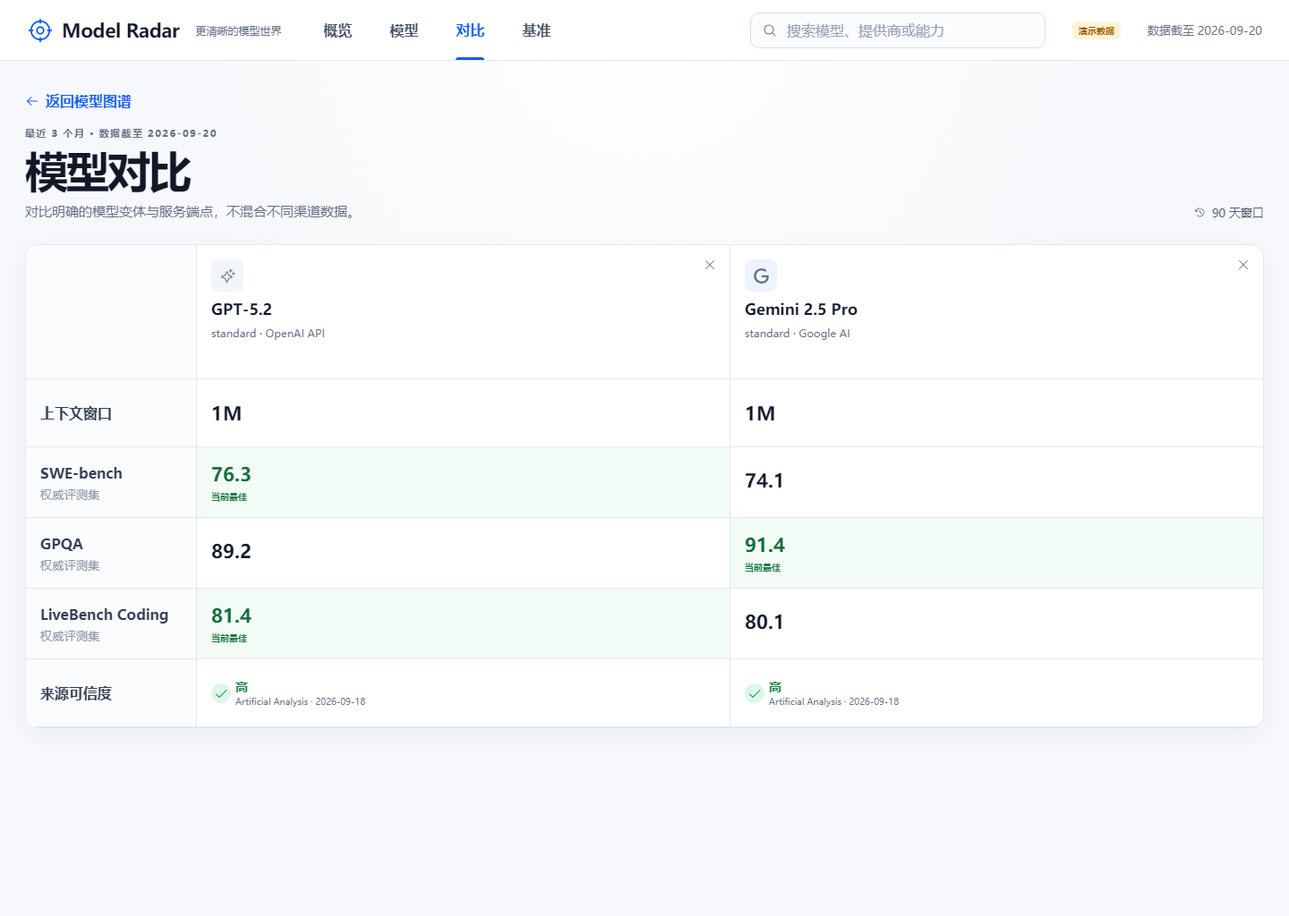
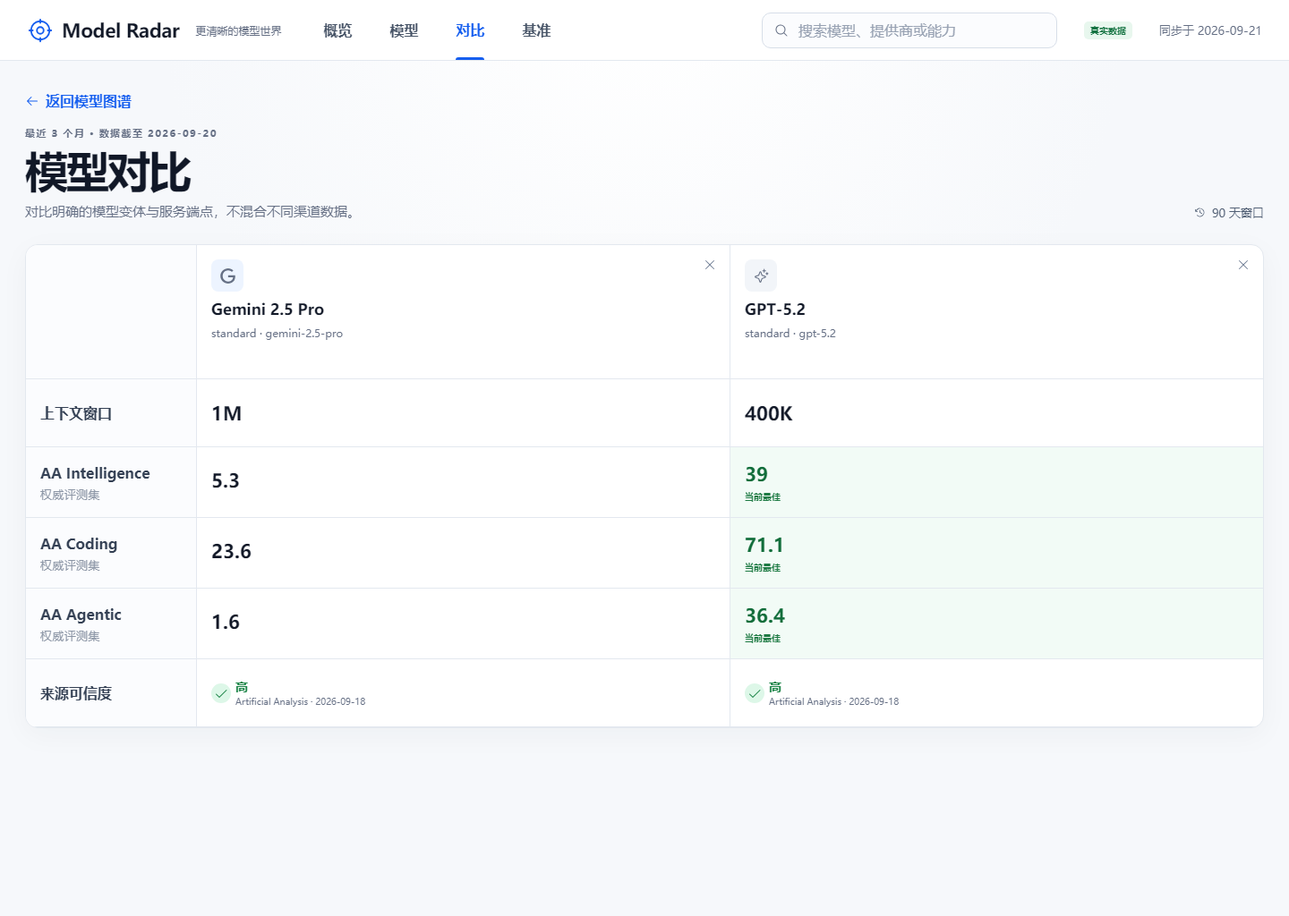
feat: connect web app to live model data

diff --git a/apps/web/src/App.jsx b/apps/web/src/App.jsx
@@ -1,15 +1,15 @@
 import { useEffect, useMemo, useState } from "react";
 import {
-  PiArrowLeft, PiArrowRight, PiBracketsCurly,
+  PiArrowLeft, PiArrowRight,
   PiCaretDown, PiCaretRight, PiChartLineUp, PiCheck,
-  PiClockCounterClockwise, PiCrosshair, PiCurrencyDollar, PiInfo,
-  PiLightning, PiMagnifyingGlass, PiShieldWarning, PiSparkle, PiTrendUp, PiX,
+  PiClockCounterClockwise, PiCrosshair, PiInfo,
+  PiMagnifyingGlass, PiShieldWarning, PiSparkle, PiTrendUp, PiX,
 } from "react-icons/pi";
 import { SiAlibabacloud, SiAnthropic, SiDeepseek, SiGoogle, SiMeta } from "react-icons/si";
 
 const PROVIDER_ICONS = { OpenAI: PiSparkle, Anthropic: SiAnthropic, Google: SiGoogle, Meta: SiMeta, DeepSeek: SiDeepseek, Alibaba: SiAlibabacloud };
 const ROUTES = { overview: "/", models: "/models", compare: "/compare", benchmarks: "/benchmarks" };
-const MODELS = [
+const DEMO_MODELS = [
   { id:"gpt-5-2", name:"GPT-5.2", provider:"OpenAI", release:"2026-08-15", context:"1M", reasoning:5, vision:4, tools:5, eval:92.4, benchmark:"MMLU-Pro", source:"Artificial Analysis", variants:["standard","reasoning"], endpoint:"OpenAI API", openWeight:false, score:{"SWE-bench":76.3,GPQA:89.2,"LiveBench Coding":81.4} },
   { id:"claude-opus-4-1", name:"Claude Opus 4.1", provider:"Anthropic", release:"2026-08-05", context:"200K", reasoning:5, vision:4, tools:4, eval:90.1, benchmark:"MMLU-Pro", source:"Artificial Analysis", variants:["standard","thinking"], endpoint:"Anthropic API", openWeight:false, score:{"SWE-bench":72.8,GPQA:88.7,"LiveBench Coding":79.6} },
   { id:"gemini-2-5-pro", name:"Gemini 2.5 Pro", provider:"Google", release:"2026-07-17", context:"1M", reasoning:4, vision:5, tools:4, eval:91.7, benchmark:"MMLU-Pro", source:"Artificial Analysis", variants:["standard","thinking"], endpoint:"Google AI", openWeight:false, score:{"SWE-bench":74.1,GPQA:91.4,"LiveBench Coding":80.1} },
@@ -17,13 +17,7 @@ const MODELS = [
   { id:"deepseek-r2", name:"DeepSeek R2", provider:"DeepSeek", release:"2026-08-21", context:"256K", reasoning:4, vision:2, tools:3, eval:88.9, benchmark:"MMLU-Pro", source:"OpenCompass", variants:["chat","reasoner"], endpoint:"DeepSeek API", openWeight:true, score:{"SWE-bench":70.2,GPQA:87.1,"LiveBench Coding":77.8} },
   { id:"qwen3-max", name:"Qwen3 Max", provider:"Alibaba", release:"2026-08-11", context:"1M", reasoning:4, vision:4, tools:4, eval:89.4, benchmark:"MMLU-Pro", source:"Qwen Eval", variants:["standard","thinking"], endpoint:"Alibaba Cloud", openWeight:false, score:{"SWE-bench":71.6,GPQA:86.9,"LiveBench Coding":78.3} },
 ];
-const UPDATES = [
-  { type:"基准变化", icon:PiChartLineUp, tone:"blue", title:"GPT-5.2 在 SWE-bench Verified 上升 5.8%", detail:"72.1 → 76.3 · 当前三个月最大代码能力变化", date:"09-20", source:"Artificial Analysis" },
-  { type:"规格更新", icon:PiBracketsCurly, tone:"violet", title:"Claude Sonnet 4.5 上下文扩展至 1M", detail:"长文档与代码库任务的可用窗口显著扩大", date:"09-18", source:"Anthropic" },
-  { type:"价格调整", icon:PiCurrencyDollar, tone:"amber", title:"Gemini 2.5 Flash 输入价格下调 20%", detail:"$0.30 → $0.24 / 1M tokens", date:"09-16", source:"Google" },
-  { type:"新模型", icon:PiLightning, tone:"green", title:"DeepSeek R2 进入观察名单", detail:"推理与工具使用评测已开始持续跟踪", date:"09-12", source:"DeepSeek" },
-];
-const BENCHMARKS = [
+const DEMO_BENCHMARKS = [
   { id:"swe-bench", name:"SWE-bench Verified", category:"代码", capability:"Repo-level Coding", version:"2026.08", metric:"Resolved %", risk:"中", results:6, updated:"09-20", description:"衡量模型在真实 GitHub 仓库中定位、修改并验证软件问题的能力。", method:"500 个经人工验证的软件工程任务，分数越高越好。" },
   { id:"gpqa", name:"GPQA Diamond", category:"推理", capability:"Scientific Reasoning", version:"Diamond", metric:"Accuracy", risk:"低", results:6, updated:"09-18", description:"面向博士级科学问题的高难度推理评测。", method:"198 道精选题目，采用准确率并记录推理设置。" },
   { id:"livebench", name:"LiveBench Coding", category:"代码", capability:"Code Generation", version:"2026-09", metric:"Score", risk:"低", results:6, updated:"09-17", description:"按月更新、减少训练污染影响的动态代码评测。", method:"使用当月新题集，保留版本与评测时间。" },
@@ -31,7 +25,46 @@ const BENCHMARKS = [
   { id:"mmmu", name:"MMMU", category:"多模态", capability:"Vision Reasoning", version:"1.1", metric:"Accuracy", risk:"中", results:4, updated:"09-09", description:"面向大学学科图像、图表与文档理解的多模态评测。", method:"图文混合输入，结果明确关联支持视觉的 Variant。" },
 ];
 
-function ModelMark({ model }) { const Icon=PROVIDER_ICONS[model.provider]; return <span className={`provider-mark provider-${model.provider.toLowerCase()}`}><Icon/></span>; }
+const PROVIDER_NAMES = { openai:"OpenAI", anthropic:"Anthropic", google:"Google", meta:"Meta", deepseek:"DeepSeek", alibaba:"Alibaba", xai:"xAI", mistral:"Mistral", zhipu:"Zhipu" };
+const SCORE_LABELS = {
+  artificial_analysis_intelligence_index:"AA Intelligence",
+  artificial_analysis_coding_index:"AA Coding",
+  artificial_analysis_agentic_index:"AA Agentic",
+};
+const COMPARE_BENCHMARKS = Object.values(SCORE_LABELS);
+
+function compactTokens(value) {
+  if (!value) return "—";
+  if (value >= 1_000_000) return `${value / 1_000_000}M`;
+  if (value >= 1_000) return `${Math.round(value / 1_000)}K`;
+  return String(value);
+}
+
+function mapApiModel(item) {
+  const evaluations=item.evaluations||[], scores={};
+  evaluations.forEach(e=>{ if(SCORE_LABELS[e.benchmark_slug]) scores[SCORE_LABELS[e.benchmark_slug]]=Number(e.score); });
+  const headline=evaluations.find(e=>e.benchmark_slug==="artificial_analysis_intelligence_index")||evaluations[0];
+  const variant=item.variant||{};
+  return {
+    id:item.slug, name:item.canonical_name, provider:PROVIDER_NAMES[item.provider]||item.provider,
+    release:item.release_date||"—", context:compactTokens(variant.context_window),
+    reasoning:variant.supports_reasoning?5:2, vision:variant.supports_image?4:1, tools:variant.supports_tool_calling?4:1,
+    eval:headline?Number(headline.score):null, benchmark:headline?(SCORE_LABELS[headline.benchmark_slug]||headline.benchmark_name):"待评测",
+    source:headline?.source||"Registry", variants:[variant.name||"standard"],
+    endpoint:item.endpoint?.external_model_id||"暂无端点", openWeight:Boolean(item.open_weight), score:scores,
+    snapshotId:headline?.source_snapshot_id, observedAt:headline?.observed_at, live:true,
+  };
+}
+
+function mapApiBenchmark(item) {
+  const categoryMap={coding:"代码",reasoning:"推理",agent:"智能体",composite:"综合",multimodal:"多模态",knowledge:"知识"};
+  const version=item.versions?.[0], metric=version?.metrics?.[0];
+  return { id:item.slug, name:item.name, category:categoryMap[item.category]||item.category, capability:item.capabilities?.map(x=>x.name).join(" / ")||item.category,
+    version:version?.version||"—", metric:metric?.name||"—", risk:item.contamination_risk==="low"?"低":item.contamination_risk==="high"?"高":"中",
+    results:"—", updated:"本次同步", description:item.description||"暂无说明", method:`${metric?.name||"Score"} · ${metric?.score_direction||"higher_better"}` };
+}
+
+function ModelMark({ model }) { const Icon=PROVIDER_ICONS[model.provider]||PiSparkle; return <span className={`provider-mark provider-${model.provider.toLowerCase()}`}><Icon/></span>; }
 function Rating({ value, label }) { return <div className="rating" aria-label={`${label} ${value}/5`}><span className="rating-bars">{[1,2,3,4,5].map(n=><i key={n} className={n<=value?"filled":""}/>)}</span><small>{value>=5?"极强":value>=4?"强":value>=3?"中":"基础"}</small></div>; }
 function Filter({ label, value, onChange, options }) { return <label className="filter"><span>{label}</span><select value={value} onChange={e=>onChange(e.target.value)}><option value="all">全部</option>{options.map(x=><option key={x} value={x}>{x}</option>)}</select><PiCaretDown/></label>; }
 
@@ -39,16 +72,19 @@ function PageHero({ eyebrow, title, description, aside }) {
   return <div className="page-hero"><div><p className="eyebrow">{eyebrow}</p><h1>{title}</h1><p>{description}</p></div>{aside&&<aside>{aside}</aside>}</div>;
 }
 
-function Overview({ navigate }) {
+function Overview({ navigate, models }) {
+  const ranked=[...models].filter(m=>m.eval!==null).sort((a,b)=>b.eval-a.eval);
+  const liveUpdates=ranked.slice(0,4).map((model,index)=>({type:"真实评测",icon:PiChartLineUp,tone:["blue","violet","amber","green"][index],title:`${model.name} · ${model.benchmark} ${model.eval}`,detail:`${model.provider} · ${model.variants[0]} · ${model.endpoint}`,date:"本次同步",source:model.source}));
+  const pulse=COMPARE_BENCHMARKS.map(label=>({label,model:models.filter(m=>Number.isFinite(m.score[label])).sort((a,b)=>b.score[label]-a.score[label])[0]})).filter(item=>item.model);
   return <section className="page overview-page">
-    <PageHero eyebrow="LAST 90 DAYS · 数据截至 2026-09-20" title="最近发生了什么？" description="聚合模型发布、评测变化、价格和规格更新，只保留影响决策的信号。" aside={<><strong>近三个月观察窗口</strong><span>2026-06-20 — 2026-09-20</span></>}/>
+    <PageHero eyebrow="LIVE DATA · ARTIFICIAL ANALYSIS" title="最新模型雷达" description="展示已同步、可追溯到原始 Snapshot 的真实评测数据；未匹配的外部模型进入人工解析队列。" aside={<><strong>本次真实数据同步</strong><span>2026-09-21 · 近三个月范围</span></>}/>
     <div className="overview-grid">
-      <article className="panel activity-panel"><header><div><p className="section-kicker">LATEST CHANGES</p><h2>重要变化</h2></div><button className="text-button" onClick={()=>navigate("models")}>查看模型 <PiArrowRight/></button></header>
-        <div className="activity-list">{UPDATES.map(({type,icon:Icon,tone,title,detail,date,source})=><div className="activity-row" key={title}><span className={`activity-icon ${tone}`}><Icon/></span><div><small>{type}</small><strong>{title}</strong><p>{detail}</p></div><div className="activity-meta"><b>{date}</b><span>{source}</span></div></div>)}</div>
+      <article className="panel activity-panel"><header><div><p className="section-kicker">LATEST SYNC</p><h2>最新真实评测</h2></div><button className="text-button" onClick={()=>navigate("models")}>查看模型 <PiArrowRight/></button></header>
+        <div className="activity-list">{liveUpdates.map(({type,icon:Icon,tone,title,detail,date,source})=><div className="activity-row" key={title}><span className={`activity-icon ${tone}`}><Icon/></span><div><small>{type}</small><strong>{title}</strong><p>{detail}</p></div><div className="activity-meta"><b>{date}</b><span>{source}</span></div></div>)}</div>
       </article>
-      <aside className="panel watch-panel"><p className="section-kicker">WATCHLIST</p><h2>值得关注</h2><p className="panel-intro">近期变化幅度较大的模型。</p>{MODELS.slice(0,4).map((m,index)=><div className="watch-row" key={m.id}><span>{index+1}</span><ModelMark model={m}/><div><strong>{m.name}</strong><small>{m.provider} · {m.context}</small></div><b>{m.eval}</b></div>)}<button className="primary wide" onClick={()=>navigate("models")}>选择模型进行对比 <PiArrowRight/></button></aside>
+      <aside className="panel watch-panel"><p className="section-kicker">WATCHLIST</p><h2>值得关注</h2><p className="panel-intro">按 AA Intelligence 当前分数排序。</p>{ranked.slice(0,4).map((m,index)=><div className="watch-row" key={m.id}><span>{index+1}</span><ModelMark model={m}/><div><strong>{m.name}</strong><small>{m.provider} · {m.context}</small></div><b>{m.eval}</b></div>)}<button className="primary wide" onClick={()=>navigate("models")}>选择模型进行对比 <PiArrowRight/></button></aside>
     </div>
-    <article className="panel pulse-panel"><header><div><p className="section-kicker">BENCHMARK PULSE</p><h2>评测变化速览</h2></div><button className="text-button" onClick={()=>navigate("benchmarks")}>查看全部基准 <PiArrowRight/></button></header><div className="pulse-list"><div><span>SWE-bench Verified</span><strong>GPT-5.2</strong><b className="positive">+5.8%</b></div><div><span>GPQA Diamond</span><strong>Gemini 2.5 Pro</strong><b className="positive">+2.7%</b></div><div><span>LiveBench Coding</span><strong>Qwen3 Max</strong><b className="positive">+3.1%</b></div></div></article>
+    <article className="panel pulse-panel"><header><div><p className="section-kicker">BENCHMARK PULSE</p><h2>真实评测速览</h2></div><button className="text-button" onClick={()=>navigate("benchmarks")}>查看全部基准 <PiArrowRight/></button></header><div className="pulse-list">{pulse.map(({label,model})=><div key={label}><span>{label}</span><strong>{model.name}</strong><b className="positive">{model.score[label]}</b></div>)}</div></article>
   </section>;
 }
 
@@ -57,27 +93,29 @@ function SelectionDock({ selected, toggle, navigate }) {
   return <div className={`selection-dock ${selected.length?"has-selection":""}`} aria-live="polite"><div className="selection-summary"><strong>{message}</strong><span>比较时会明确 Variant 与 Endpoint</span></div><div className="selection-chips">{selected.map(m=><span className="selection-chip" key={m.id}><ModelMark model={m}/><span><b>{m.name}</b><small>{m.variants[0]} · {m.endpoint}</small></span><button onClick={()=>toggle(m.id)} aria-label={`移除 ${m.name}`}><PiX/></button></span>)}</div><button className="primary" disabled={selected.length<2} onClick={()=>navigate("compare")}>{selected.length<2?"继续选择":"开始对比"} <PiArrowRight/></button></div>;
 }
 
-function ModelCatalog({ query, setQuery, selected, selectedIds, toggle, provider, setProvider, capability, setCapability, openWeight, setOpenWeight, navigate }) {
-  const filtered=useMemo(()=>MODELS.filter(m=>`${m.name} ${m.provider}`.toLowerCase().includes(query.toLowerCase())&&(provider==="all"||m.provider===provider)&&(openWeight==="all"||(openWeight==="yes"?m.openWeight:!m.openWeight))&&(capability==="all"||m[capability]>=4)),[query,provider,capability,openWeight]);
+function ModelCatalog({ models, query, setQuery, selected, selectedIds, toggle, provider, setProvider, capability, setCapability, openWeight, setOpenWeight, navigate }) {
+  const providerOptions=[...new Set(models.map(m=>m.provider))];
+  const filtered=useMemo(()=>models.filter(m=>`${m.name} ${m.provider}`.toLowerCase().includes(query.toLowerCase())&&(provider==="all"||m.provider===provider)&&(openWeight==="all"||(openWeight==="yes"?m.openWeight:!m.openWeight))&&(capability==="all"||m[capability]>=4)),[models,query,provider,capability,openWeight]);
   return <section className="catalog page"><PageHero eyebrow="MODEL INTELLIGENCE · 近 3 个月" title="模型图谱" description="收录经过验证的主流模型、变体与推理端点，快速筛选并进入可信对比。" aside={<><strong>独立 · 客观 · 可追溯</strong><span>连接模型、评测与真实应用</span></>}/>
-    <div className="catalog-surface"><div className="filters"><label className="model-search"><PiMagnifyingGlass/><input value={query} onChange={e=>setQuery(e.target.value)} placeholder="搜索模型名称、提供商或关键词…"/></label><Filter label="Provider" value={provider} onChange={setProvider} options={["OpenAI","Anthropic","Google","Meta","DeepSeek","Alibaba"]}/><Filter label="能力" value={capability} onChange={setCapability} options={["reasoning","vision","tools"]}/><Filter label="Open Weight" value={openWeight} onChange={setOpenWeight} options={["yes","no"]}/></div>
+    <div className="catalog-surface"><div className="filters"><label className="model-search"><PiMagnifyingGlass/><input value={query} onChange={e=>setQuery(e.target.value)} placeholder="搜索模型名称、提供商或关键词…"/></label><Filter label="Provider" value={provider} onChange={setProvider} options={providerOptions}/><Filter label="能力" value={capability} onChange={setCapability} options={["reasoning","vision","tools"]}/><Filter label="Open Weight" value={openWeight} onChange={setOpenWeight} options={["yes","no"]}/></div>
       <SelectionDock selected={selected} toggle={toggle} navigate={navigate}/>
-      <div className="table-wrap"><table><thead><tr><th/><th>Model</th><th>Provider</th><th>Release</th><th>Context</th><th>Reasoning</th><th>Vision</th><th>Tool Use</th><th>Latest Eval</th><th>Status</th></tr></thead><tbody>{filtered.map(m=>{const checked=selectedIds.includes(m.id);return <tr key={m.id} className={checked?"selected":""}><td><button className={`checkbox ${checked?"checked":""}`} onClick={()=>toggle(m.id)} aria-label={`${checked?"取消选择":"选择"} ${m.name}`}>{checked&&<PiCheck/>}</button></td><td><div className="model-name"><strong>{m.name}</strong><span>{m.variants.length} variants</span><small>{m.variants.join(" · ")}</small></div></td><td><div className="provider"><ModelMark model={m}/><span>{m.provider}</span></div></td><td>{m.release}</td><td><b>{m.context}</b><small>tokens</small></td><td><Rating value={m.reasoning} label="Reasoning"/></td><td><Rating value={m.vision} label="Vision"/></td><td><Rating value={m.tools} label="Tool use"/></td><td><div className="eval"><b>{m.eval}</b><span>{m.benchmark}</span><small>{m.source}</small></div></td><td><div className="status"><i/>可用<small>{m.endpoint}</small></div></td></tr>})}</tbody></table>{filtered.length===0&&<div className="empty">没有符合当前筛选条件的模型</div>}</div>
-      <footer className="table-footer"><span>显示 {filtered.length} 个模型 · 时间范围：2026-06-20 至 2026-09-20</span><span><PiInfo/> 数据来源：官方发布与权威评测集 · 最后更新 2026-09-20</span></footer></div>
+      <div className="table-wrap"><table><thead><tr><th/><th>Model</th><th>Provider</th><th>Release</th><th>Context</th><th>Reasoning</th><th>Vision</th><th>Tool Use</th><th>Latest Eval</th><th>Status</th></tr></thead><tbody>{filtered.map(m=>{const checked=selectedIds.includes(m.id);return <tr key={m.id} className={checked?"selected":""}><td><button className={`checkbox ${checked?"checked":""}`} onClick={()=>toggle(m.id)} aria-label={`${checked?"取消选择":"选择"} ${m.name}`}>{checked&&<PiCheck/>}</button></td><td><div className="model-name"><strong>{m.name}</strong><span>{m.variants.length} variants</span><small>{m.variants.join(" · ")}</small></div></td><td><div className="provider"><ModelMark model={m}/><span>{m.provider}</span></div></td><td>{m.release}</td><td><b>{m.context}</b><small>tokens</small></td><td><Rating value={m.reasoning} label="Reasoning"/></td><td><Rating value={m.vision} label="Vision"/></td><td><Rating value={m.tools} label="Tool use"/></td><td><div className="eval"><b>{m.eval??"—"}</b><span>{m.benchmark}</span><small>{m.source}</small></div></td><td><div className="status"><i/>{m.live?"已同步":"演示"}<small>{m.endpoint}</small></div></td></tr>})}</tbody></table>{filtered.length===0&&<div className="empty">没有符合当前筛选条件的模型</div>}</div>
+      <footer className="table-footer"><span>显示 {filtered.length} 个模型 · 近三个月跟踪范围</span><span><PiInfo/> 评测来源：Artificial Analysis · 本次同步 2026-09-21</span></footer></div>
   </section>;
 }
 
 function CompareView({ selected, navigate, toggle }) {
-  const benchmarks=["SWE-bench","GPQA","LiveBench Coding"];
+  const benchmarks=COMPARE_BENCHMARKS;
   if(selected.length<2) return <section className="page compare-view"><PageHero eyebrow="MODEL COMPARE" title="模型对比" description="选择 2–5 个明确的 Variant 与 Endpoint，避免混合不同渠道的数据。"/><div className="panel compare-empty"><span className="empty-icon"><PiTrendUp/></span><h2>{selected.length===1?"再选 1 个模型即可开始":"还没有选择模型"}</h2><p>{selected.length===1?`${selected[0].name} 已加入对比。`:"从模型图谱中选择你真正关心的候选项。"}</p><button className="primary" onClick={()=>navigate("models")}>去选择模型 <PiArrowRight/></button></div></section>;
   return <section className="compare-view page"><button className="text-button" onClick={()=>navigate("models")}><PiArrowLeft/> 返回模型图谱</button><div className="compare-title"><div><p className="eyebrow">最近 3 个月 · 数据截至 2026-09-20</p><h1>模型对比</h1><p>对比明确的模型变体与服务端点，不混合不同渠道数据。</p></div><span className="freshness"><PiClockCounterClockwise/> 90 天窗口</span></div><div className="compare-grid" style={{"--columns":selected.length}}><div className="compare-label blank"/>{selected.map(m=><article className="compare-head" key={m.id}><button onClick={()=>toggle(m.id)} aria-label={`移除 ${m.name}`}><PiX/></button><ModelMark model={m}/><strong>{m.name}</strong><span>{m.variants[0]} · {m.endpoint}</span></article>)}<div className="compare-label">上下文窗口</div>{selected.map(m=><div className="compare-cell" key={`${m.id}-context`}><b>{m.context}</b></div>)}{benchmarks.map(b=><div className="compare-row" key={b}><div className="compare-label">{b}<small>权威评测集</small></div>{selected.map(m=>{const best=Math.max(...selected.map(x=>x.score[b]));return <div className={`compare-cell ${m.score[b]===best?"best":""}`} key={`${m.id}-${b}`}><b>{m.score[b]}</b><span>{m.score[b]===best?"当前最佳":""}</span></div>})}</div>)}<div className="compare-label">来源可信度</div>{selected.map(m=><div className="compare-cell evidence" key={`${m.id}-source`}><PiCheck/><div><b>高</b><span>{m.source} · 2026-09-18</span></div></div>)}</div></section>;
 }
 
-function Benchmarks() {
+function Benchmarks({ benchmarks }) {
   const [search,setSearch]=useState(""), [category,setCategory]=useState("all"), [active,setActive]=useState("swe-bench");
-  const rows=BENCHMARKS.filter(b=>(b.name+b.capability).toLowerCase().includes(search.toLowerCase())&&(category==="all"||b.category===category));
-  const detail=BENCHMARKS.find(b=>b.id===active);
-  return <section className="page benchmark-page"><PageHero eyebrow="BENCHMARK REGISTRY · 近 3 个月" title="基准目录" description="理解每个分数测量什么、使用哪个版本，以及结果是否存在污染风险。" aside={<><strong>{BENCHMARKS.length} 个核心基准</strong><span>版本、Metric 与来源可追溯</span></>}/>
+  const categories=[...new Set(benchmarks.map(b=>b.category))];
+  const rows=benchmarks.filter(b=>(b.name+b.capability).toLowerCase().includes(search.toLowerCase())&&(category==="all"||b.category===category));
+  const detail=benchmarks.find(b=>b.id===active)||benchmarks[0];
+  return <section className="page benchmark-page"><PageHero eyebrow="BENCHMARK REGISTRY · 近 3 个月" title="基准目录" description="理解每个分数测量什么、使用哪个版本，以及结果是否存在污染风险。" aside={<><strong>{benchmarks.length} 个核心基准</strong><span>版本、Metric 与来源可追溯</span></>}/>
     <div className="panel benchmark-panel"><div className="benchmark-tools"><label className="model-search"><PiMagnifyingGlass/><input value={search} onChange={e=>setSearch(e.target.value)} placeholder="搜索基准或能力…"/></label><Filter label="分类" value={category} onChange={setCategory} options={["代码","推理","多模态"]}/></div><div className="benchmark-list"><div className="benchmark-list-head"><span>Benchmark</span><span>能力</span><span>版本 / Metric</span><span>污染风险</span><span>最近更新</span><span/></div>{rows.map(b=><button className={`benchmark-row ${active===b.id?"active":""}`} key={b.id} onClick={()=>setActive(b.id)}><span><b>{b.name}</b><small>{b.category} · {b.results} 个模型结果</small></span><span>{b.capability}</span><span><b>{b.version}</b><small>{b.metric}</small></span><span className={`risk risk-${b.risk}`}>{b.risk}</span><span>{b.updated}</span><PiCaretRight/></button>)}</div></div>
     {detail&&<article className="panel benchmark-detail"><div><p className="section-kicker">BENCHMARK DETAIL</p><h2>{detail.name}</h2><p>{detail.description}</p></div><dl><div><dt>评测方法</dt><dd>{detail.method}</dd></div><div><dt>当前版本</dt><dd>{detail.version}</dd></div><div><dt>Metric</dt><dd>{detail.metric}</dd></div><div><dt>污染风险</dt><dd><PiShieldWarning/> {detail.risk}</dd></div></dl></article>}
   </section>;
@@ -86,13 +124,35 @@ function Benchmarks() {
 export function App() {
   const pathToView=()=>Object.entries(ROUTES).find(([,path])=>path===location.pathname)?.[0]||"overview";
   const [view,setView]=useState(pathToView), [query,setQuery]=useState(""), [provider,setProvider]=useState("all"), [capability,setCapability]=useState("all"), [openWeight,setOpenWeight]=useState("all"), [selectedIds,setSelectedIds]=useState([]);
-  const selected=MODELS.filter(m=>selectedIds.includes(m.id));
+  const [models,setModels]=useState([]), [benchmarks,setBenchmarks]=useState([]), [dataStatus,setDataStatus]=useState("loading");
+  const selected=models.filter(m=>selectedIds.includes(m.id));
   const navigate=next=>{ setView(next); if(location.pathname!==ROUTES[next]) history.pushState({},"",ROUTES[next]); window.scrollTo({top:0,behavior:"instant"}); };
   useEffect(()=>{ const onPop=()=>setView(pathToView()); addEventListener("popstate",onPop); return()=>removeEventListener("popstate",onPop); },[]);
+  useEffect(()=>{
+    let cancelled=false;
+    async function loadData(){
+      try {
+        const [modelResponse,benchmarkResponse]=await Promise.all([
+          fetch("/api/v1/models?status=preview&limit=100&include_summary=true"),
+          fetch("/api/v1/benchmarks?limit=100"),
+        ]);
+        if(!modelResponse.ok||!benchmarkResponse.ok) throw new Error("API unavailable");
+        const modelBody=await modelResponse.json(), benchmarkBody=await benchmarkResponse.json();
+        const benchmarkDetails=await Promise.all(benchmarkBody.items.map(async item=>{
+          const response=await fetch(`/api/v1/benchmarks/${item.slug}`);
+          return response.ok?response.json():item;
+        }));
+        if(!cancelled){ setModels(modelBody.items.map(mapApiModel)); setBenchmarks(benchmarkDetails.map(mapApiBenchmark)); setDataStatus("live"); }
+      } catch {
+        if(!cancelled){ setModels(DEMO_MODELS); setBenchmarks(DEMO_BENCHMARKS); setDataStatus("demo"); }
+      }
+    }
+    loadData(); return()=>{cancelled=true;};
+  },[]);
   const toggle=id=>setSelectedIds(now=>now.includes(id)?now.filter(x=>x!==id):now.length<5?[...now,id]:now);
   const globalSearch=e=>{ setQuery(e.target.value); if(view!=="models") navigate("models"); };
   const nav=[{id:"overview",label:"概览"},{id:"models",label:"模型"},{id:"compare",label:"对比"},{id:"benchmarks",label:"基准"}];
-  return <div className="app-shell"><header className="topbar"><button className="brand" onClick={()=>navigate("overview")}><PiCrosshair/><strong>Model Radar</strong><span>更清晰的模型世界</span></button><nav aria-label="主导航">{nav.map(item=><button key={item.id} className={view===item.id?"active":""} aria-current={view===item.id?"page":undefined} onClick={()=>navigate(item.id)}>{item.label}</button>)}</nav><label className="global-search"><PiMagnifyingGlass/><input value={query} onChange={globalSearch} placeholder="搜索模型、提供商或能力"/></label><span className="demo-badge">演示数据</span><span className="as-of">数据截至 2026-09-20</span></header><main>
-    {view==="overview"&&<Overview navigate={navigate}/>} {view==="models"&&<ModelCatalog query={query} setQuery={setQuery} selected={selected} selectedIds={selectedIds} toggle={toggle} provider={provider} setProvider={setProvider} capability={capability} setCapability={setCapability} openWeight={openWeight} setOpenWeight={setOpenWeight} navigate={navigate}/>} {view==="compare"&&<CompareView selected={selected} navigate={navigate} toggle={toggle}/>} {view==="benchmarks"&&<Benchmarks/>}
+  return <div className="app-shell"><header className="topbar"><button className="brand" onClick={()=>navigate("overview")}><PiCrosshair/><strong>Model Radar</strong><span>更清晰的模型世界</span></button><nav aria-label="主导航">{nav.map(item=><button key={item.id} className={view===item.id?"active":""} aria-current={view===item.id?"page":undefined} onClick={()=>navigate(item.id)}>{item.label}</button>)}</nav><label className="global-search"><PiMagnifyingGlass/><input value={query} onChange={globalSearch} placeholder="搜索模型、提供商或能力"/></label><span className={`demo-badge ${dataStatus==="live"?"live-data":""}`}>{dataStatus==="live"?"真实数据":dataStatus==="loading"?"同步中":"演示数据"}</span><span className="as-of">同步于 2026-09-21</span></header><main>
+    {view==="overview"&&<Overview navigate={navigate} models={models}/>} {view==="models"&&<ModelCatalog models={models} query={query} setQuery={setQuery} selected={selected} selectedIds={selectedIds} toggle={toggle} provider={provider} setProvider={setProvider} capability={capability} setCapability={setCapability} openWeight={openWeight} setOpenWeight={setOpenWeight} navigate={navigate}/>} {view==="compare"&&<CompareView selected={selected} navigate={navigate} toggle={toggle}/>} {view==="benchmarks"&&<Benchmarks benchmarks={benchmarks}/>}
   </main></div>;
 }

diff --git a/apps/web/src/styles.css b/apps/web/src/styles.css
@@ -1,6 +1,6 @@
 :root{font-family:Inter,"Noto Sans SC","Microsoft YaHei",system-ui,sans-serif;color:#111827;background:#f6f8fb;font-synthesis:none;--blue:#155eef;--blue-weak:#eaf1ff;--ink:#111827;--muted:#667085;--line:#e3e8ef;--surface:#fff}*{box-sizing:border-box}button,input,select{font:inherit}button{color:inherit}body{margin:0;min-width:320px;min-height:100vh;-webkit-font-smoothing:antialiased}button:focus-visible,input:focus-visible,select:focus-visible{outline:3px solid #155eef33;outline-offset:2px}.app-shell{min-height:100vh;padding-bottom:118px;background:radial-gradient(circle at 50% 0,#fff 0,#f6f8fb 43%)}
 .topbar{height:68px;padding:0 30px;display:flex;align-items:center;gap:30px;background:#fffffff0;border-bottom:1px solid var(--line);position:sticky;top:0;z-index:20;backdrop-filter:blur(12px)}.brand{border:0;background:none;display:flex;align-items:center;gap:9px;padding:0;cursor:pointer;white-space:nowrap}.brand>svg{color:var(--blue);width:30px;height:30px}.brand strong{font-size:21px;letter-spacing:-.4px}.brand span{color:var(--muted);font-size:12px;margin-left:9px;font-style:italic}.topbar nav{display:flex;align-self:stretch;gap:8px}.topbar nav button{border:0;background:none;padding:0 17px;font-weight:650;color:#475467;cursor:pointer;position:relative}.topbar nav button.active{color:var(--blue)}.topbar nav button.active:after{content:"";position:absolute;left:17px;right:17px;bottom:0;height:3px;background:var(--blue);border-radius:3px 3px 0 0}.global-search{margin-left:auto;width:min(330px,24vw);height:40px;display:flex;align-items:center;gap:9px;padding:0 13px;border:1px solid #d7dee8;border-radius:10px;background:#fbfcfe;color:#667085}.global-search input,.model-search input{border:0;outline:0;background:transparent;min-width:0;flex:1;color:var(--ink)}.global-search input::placeholder,.model-search input::placeholder{color:#98a2b3}.as-of{font-size:13px;color:var(--muted);white-space:nowrap}
-.demo-badge{padding:3px 7px;border-radius:5px;background:#fff3d6;color:#9a5b00;font-size:10px;font-weight:750;white-space:nowrap}main{max-width:1500px;margin:0 auto}.catalog,.compare-view{padding:34px 28px 0}.hero,.compare-title{display:flex;align-items:flex-end;justify-content:space-between;gap:30px;margin-bottom:27px}.eyebrow{color:var(--blue);font-size:11px!important;font-weight:800;letter-spacing:1.4px;margin:0 0 8px!important}.hero h1,.compare-title h1{margin:0;font-size:clamp(34px,3.3vw,48px);line-height:1.1;letter-spacing:-1.5px}.hero p,.compare-title p{margin:10px 0 0;color:var(--muted);font-size:15px}.hero aside{min-width:238px;padding:2px 0 2px 24px;border-left:2px solid #cbd5e1;display:grid;gap:7px}.hero aside strong{font-size:16px}.hero aside span{color:var(--muted);font-size:13px}
+.demo-badge{padding:3px 7px;border-radius:5px;background:#fff3d6;color:#9a5b00;font-size:10px;font-weight:750;white-space:nowrap}.demo-badge.live-data{background:#e8f7ee;color:#167443}main{max-width:1500px;margin:0 auto}.catalog,.compare-view{padding:34px 28px 0}.hero,.compare-title{display:flex;align-items:flex-end;justify-content:space-between;gap:30px;margin-bottom:27px}.eyebrow{color:var(--blue);font-size:11px!important;font-weight:800;letter-spacing:1.4px;margin:0 0 8px!important}.hero h1,.compare-title h1{margin:0;font-size:clamp(34px,3.3vw,48px);line-height:1.1;letter-spacing:-1.5px}.hero p,.compare-title p{margin:10px 0 0;color:var(--muted);font-size:15px}.hero aside{min-width:238px;padding:2px 0 2px 24px;border-left:2px solid #cbd5e1;display:grid;gap:7px}.hero aside strong{font-size:16px}.hero aside span{color:var(--muted);font-size:13px}
 .catalog-surface{background:var(--surface);border:1px solid #dde4ed;border-radius:14px;box-shadow:0 8px 32px #1f29370a;overflow:hidden}.filters{min-height:76px;padding:14px;display:flex;align-items:center;gap:10px;border-bottom:1px solid var(--line)}.model-search{height:46px;flex:1 1 280px;min-width:230px;display:flex;align-items:center;gap:10px;padding:0 14px;border:1px solid #d7dee8;border-radius:9px;color:#667085}.filter{height:46px;display:flex;align-items:center;gap:8px;padding:0 9px 0 13px;border:1px solid #d7dee8;border-radius:9px;white-space:nowrap;color:#344054;font-size:13px;position:relative}.filter select{appearance:none;border:0;background:transparent;font-weight:650;padding-right:16px;outline:0;cursor:pointer}.filter svg{position:absolute;right:8px;width:13px;pointer-events:none}.selection-action,.primary{height:46px;border:0;border-radius:9px;background:var(--blue-weak);color:#164dcc;font-weight:750;padding:0 18px;display:inline-flex;align-items:center;gap:8px;cursor:pointer;white-space:nowrap}.selection-action:disabled,.primary:disabled{opacity:.45;cursor:not-allowed}
 .table-wrap{overflow-x:auto}table{width:100%;border-collapse:collapse;min-width:1130px}th{height:48px;padding:0 12px;text-align:left;font-size:12px;color:#526075;font-weight:700;background:#fbfcfe;white-space:nowrap}th:first-child,td:first-child{width:52px;text-align:center}td{height:86px;padding:10px 12px;border-top:1px solid var(--line);color:#344054;font-size:13px;vertical-align:middle}tbody tr{transition:background .16s}tbody tr:hover{background:#fbfdff}tbody tr.selected{background:linear-gradient(90deg,#eaf1ffcc,transparent 34%)}.checkbox{width:21px;height:21px;display:inline-grid;place-items:center;padding:0;border:1.5px solid #aeb8c7;border-radius:5px;background:#fff;cursor:pointer}.checkbox.checked{border-color:var(--blue);background:var(--blue);color:#fff}.model-name{min-width:190px;display:grid;grid-template-columns:auto 1fr;align-items:center;gap:3px 9px}.model-name strong{font-size:14px;color:var(--ink)}.model-name>span{width:fit-content;padding:2px 7px;border-radius:5px;background:#edf3ff;color:#5070a8;font-size:10px}.model-name small{grid-column:1/-1;color:#7b8799}.provider{display:flex;align-items:center;gap:9px;font-weight:600;color:#27364b}.provider-mark{width:28px;height:28px;border-radius:8px;display:inline-grid;place-items:center;background:#f2f5f9;color:#101828;flex:0 0 auto}.provider-mark svg{width:17px;height:17px}.provider-google,.provider-meta{color:#4285f4;background:#edf4ff}.provider-deepseek{color:#3459dd;background:#eff2ff}.provider-alibaba{color:#f26722;background:#fff3ea}td>small,.status small{display:block;color:#8b96a7;margin-top:3px;font-size:10px}.rating{min-width:84px;display:grid;gap:5px}.rating-bars{display:flex;gap:2px}.rating-bars i{width:10px;height:6px;border-radius:5px;background:#e0e5ec}.rating-bars i.filled{background:#169ab1}.rating small{color:#667085;font-size:11px}.eval,.status{display:grid;gap:2px}.eval b{color:var(--ink);font-size:15px}.eval span,.eval small{color:#718096;font-size:10px}.status{grid-template-columns:9px auto;align-items:center;color:#157f3b;font-weight:700}.status i{width:8px;height:8px;background:#19a454;border-radius:50%}.status small{grid-column:2;font-weight:500;max-width:100px}.table-footer{min-height:42px;padding:0 16px;display:flex;align-items:center;justify-content:space-between;gap:18px;border-top:1px solid var(--line);background:#fbfcfe;color:#7b8799;font-size:11px}.table-footer span:last-child{display:flex;align-items:center;gap:6px;text-align:right}.empty{padding:60px 20px;text-align:center;color:var(--muted)}
 .compare-shelf{position:fixed;z-index:30;left:0;right:0;bottom:0;min-height:96px;padding:14px 30px;display:flex;align-items:center;gap:22px;background:#fffffff7;border-top:1px solid #dce3ed;box-shadow:0 -10px 35px #172b4d14;backdrop-filter:blur(14px)}.shelf-title{width:190px;display:grid;gap:4px}.shelf-title span{color:var(--muted);font-size:11px}.shelf-items{flex:1;display:flex;gap:10px;overflow-x:auto}.shelf-item{min-width:250px;padding:10px;display:flex;align-items:center;gap:10px;border:1px solid var(--line);border-radius:10px}.shelf-item>div{display:grid;gap:4px;min-width:0}.shelf-item strong{font-size:12px}.shelf-item span{color:var(--muted);font-size:10px;white-space:nowrap;overflow:hidden;text-overflow:ellipsis}.shelf-item button,.compare-head button{margin-left:auto;padding:4px;display:grid;place-items:center;border:0;background:none;color:#738097;cursor:pointer}.primary{background:var(--blue);color:#fff;font-size:14px}

diff --git a/apps/api/routers/public.py b/apps/api/routers/public.py
@@ -18,6 +18,7 @@ from backend_core.domain import (
     ModelRelease,
     ModelVariant,
     Provider,
+    Source,
 )
 
 from ..deps import get_db_session, row_dict
@@ -54,6 +55,7 @@ def list_models(
     status: str = Query(default="active"),
     cursor: str | None = Query(default=None),
     limit: int = Query(default=20, ge=1, le=100),
+    include_summary: bool = Query(default=False),
 ):
     stmt = (
         select(ModelRelease)
@@ -78,6 +80,38 @@ def list_models(
         prov = session.get(Provider, family.provider_id)
         d["provider"] = prov.slug
         d["family"] = family.slug
+        if include_summary and r.default_variant_id:
+            variant = session.get(ModelVariant, r.default_variant_id)
+            endpoint = session.scalar(
+                select(ModelEndpoint)
+                .where(ModelEndpoint.model_variant_id == variant.id)
+                .order_by(ModelEndpoint.endpoint_type, ModelEndpoint.external_model_id)
+                .limit(1)
+            )
+            superseded_ids = select(Evaluation.supersedes_evaluation_id).where(
+                Evaluation.supersedes_evaluation_id.is_not(None)
+            )
+            evaluations = session.scalars(
+                select(Evaluation).where(
+                    Evaluation.model_variant_id == variant.id,
+                    Evaluation.id.not_in(superseded_ids),
+                ).order_by(Evaluation.created_at.desc())
+            ).all()
+            evaluation_items = []
+            for evaluation in evaluations:
+                benchmark = session.get(Benchmark, evaluation.benchmark_id)
+                source = session.get(Source, evaluation.source_id)
+                evaluation_items.append({
+                    "benchmark_slug": benchmark.slug,
+                    "benchmark_name": benchmark.name,
+                    "score": str(evaluation.score),
+                    "source": source.name,
+                    "source_snapshot_id": evaluation.source_snapshot_id,
+                    "observed_at": evaluation.created_at,
+                })
+            d["variant"] = row_dict(variant, VARIANT_COLUMNS)
+            d["endpoint"] = row_dict(endpoint, ENDPOINT_COLUMNS) if endpoint else None
+            d["evaluations"] = evaluation_items
         items.append(d)
     return {"items": items, "next_cursor": result["next_cursor"]}
 

diff --git a/packages/ingestion/pipeline.py b/packages/ingestion/pipeline.py
@@ -239,17 +239,18 @@ def run_sync_pipeline(
                     unmatched.append((row, result))
 
             queued = 0
+            queued_external_ids = set(
+                session.scalars(
+                    select(EntityResolutionQueue.external_id).where(
+                        EntityResolutionQueue.source_id == source_id,
+                        EntityResolutionQueue.record_type == "model_variant",
+                    )
+                ).all()
+            )
             for row, result in unmatched:
                 name = str(row.get("model_name"))
                 external_id = str(row.get("model_id") or row.get("id") or name)
-                existing = session.scalar(
-                    select(EntityResolutionQueue).where(
-                        EntityResolutionQueue.source_id == source_id,
-                        EntityResolutionQueue.record_type == "model_variant",
-                        EntityResolutionQueue.external_id == external_id,
-                    )
-                )
-                if existing is None:
+                if external_id not in queued_external_ids:
                     session.add(
                         EntityResolutionQueue(
                             source_id=source_id,
@@ -263,6 +264,7 @@ def run_sync_pipeline(
                             status="pending",
                         )
                     )
+                    queued_external_ids.add(external_id)
                     queued += 1
             tracker.succeed(
                 "entity_resolution",

diff --git a/scripts/seed.py b/scripts/seed.py
@@ -71,6 +71,15 @@ def load_yaml(name: str) -> list[dict]:
         return yaml.safe_load(f) or []
 
 
+def parse_seed_date(value) -> date | None:
+    """Accept both YAML-native dates and quoted ISO date strings."""
+    if value is None or value == "":
+        return None
+    if isinstance(value, date):
+        return value
+    return date.fromisoformat(str(value))
+
+
 def seed_providers_and_sources(session) -> None:
     for slug, name, ptype, website in PROVIDERS:
         obj = session.scalar(select(Provider).where(Provider.slug == slug))
@@ -191,8 +200,8 @@ def seed_models(session) -> int:
                 family_id=family.id,
                 canonical_name=row["canonical_name"],
                 slug=row["release_slug"],
-                release_date=date.fromisoformat(row["release_date"]) if row.get("release_date") else None,
-                knowledge_cutoff=date.fromisoformat(row["knowledge_cutoff"]) if row.get("knowledge_cutoff") else None,
+                release_date=parse_seed_date(row.get("release_date")),
+                knowledge_cutoff=parse_seed_date(row.get("knowledge_cutoff")),
                 open_weight=row.get("open_weight", False),
                 license=row.get("license"),
                 status=row.get("status", "preview"),

diff --git a/tests/test_pipeline.py b/tests/test_pipeline.py
@@ -92,7 +92,11 @@ def test_pipeline_success_upserts_and_enqueues(engine, session, registry, tmp_pa
         {"model_name": "gpt-5.2", "index_name": "gpqa-diamond", "value": 48.2,
          "sample_size": 500, "id": "aa-1"},  # pure replay
         {"model_name": "mystery-model-x", "index_name": "gpqa-diamond",
-         "value": 12.0, "id": "aa-2"},  # unmatched -> queue
+         "value": 12.0, "id": "aa-2", "model_id": "aa-model-2"},  # unmatched -> one queue per model
+        {"model_name": "mystery-model-x", "index_name": "another-index",
+         "value": 15.0, "id": "aa-2b", "model_id": "aa-model-2"},
+        {"model_name": "mystery-model-x", "index_name": "gpqa-diamond",
+         "value": 12.0, "id": "aa-2c", "model_id": "aa-model-2"},
         {"model_name": "gpt-5.2", "index_name": "unknown-benchmark",
          "value": 90.0, "id": "aa-3"},  # unknown benchmark -> skipped
     ]

diff --git a/tests/test_api.py b/tests/test_api.py
@@ -156,6 +156,15 @@ def test_models_list_filters_by_provider(client, seeded):
     assert r.json()["items"] == []
 
 
+def test_models_list_summary_includes_variant_and_endpoint(client, seeded):
+    r = client.get("/api/v1/models", params={"include_summary": True})
+    assert r.status_code == 200
+    item = r.json()["items"][0]
+    assert item["variant"]["id"] == seeded["variant_id"]
+    assert item["endpoint"]["id"] == seeded["endpoint_id"]
+    assert item["evaluations"] == []
+
+
 def test_models_detail_with_variants_and_endpoints(client, seeded):
     r = client.get(f"/api/v1/models/{seeded['release_slug']}")
     assert r.status_code == 200

diff --git a/packages/backend_core/config.py b/packages/backend_core/config.py
@@ -3,13 +3,16 @@
 from __future__ import annotations
 
 from functools import lru_cache
+from pathlib import Path
 
 from pydantic_settings import BaseSettings, SettingsConfigDict
+
+ROOT = Path(__file__).resolve().parents[2]
 
 
 class Settings(BaseSettings):
     model_config = SettingsConfigDict(
-        env_file=".env",
+        env_file=ROOT / ".env",
         env_file_encoding="utf-8",
         extra="ignore",
     )

diff --git a/apps/web/design-qa.md b/apps/web/design-qa.md
@@ -4,6 +4,7 @@
 - Implementation screenshots: `qa/overview.png`, `qa/catalog.png`, `qa/compare.png`, `qa/benchmarks.png`, `qa/mobile.png`
 - Desktop viewport: 1440 x 1024 CSS px; mobile viewport: 390 x 844 CSS px
 - Scope: all four primary sections, model selection, comparison, benchmark detail, and mobile behavior
+- Data state: FastAPI/MySQL live response with 20 tracked releases, 17 benchmarks, and Artificial Analysis snapshot-backed scores
 
 ## Evidence
 
@@ -14,6 +15,7 @@
 - Benchmarks now provides a searchable/filterable registry and in-page detail instead of a dead navigation item.
 - All four top-level actions update the URL (`/`, `/models`, `/compare`, `/benchmarks`) and active navigation state.
 - Chromium regression coverage passed for navigation, filtering, empty search, model selection, comparison, benchmark expansion, and mobile layout.
+- The header displays `真实数据` only after successful API loading. The model table and comparison now use AA Intelligence, Coding, and Agentic index values from the stored snapshot rather than the static sample scores.
 - Browser console errors: 0.
 - Mobile has no page-level horizontal overflow. The technical model table intentionally scrolls inside its bounded surface.
 

diff --git a/apps/web/AGENTS.md b/apps/web/AGENTS.md
@@ -15,3 +15,4 @@ Build app UI in `src/`. Keep `.openai/hosting.json`, `worker/index.js`, `scripts
 - Default all visible data and freshness filters to the latest three months.
 - Keep all four primary sections (Overview, Models, Compare, Benchmarks) visible and functional; each section must have its own stable URL and meaningful content.
 - Show selected models directly below the model filters, with clear 0/1/2+ guidance; never hide the active selection only at the bottom of the viewport.
+- Prefer the FastAPI/MySQL dataset and label it as real data only after a successful API response; use the static dataset solely as an explicitly labelled fallback.

diff --git a/README.md b/README.md
@@ -63,9 +63,10 @@ npm install
 npm run dev -- --port 4173
 ```
 
-Open `http://localhost:4173/`. The current UI uses clearly labelled demo data
-for the latest three-month window; API-backed production data is the next
-integration step.
+Open `http://localhost:4173/`. In local development Vite proxies `/api` to the
+FastAPI service on port 8000. The UI loads the MySQL-backed registry and the
+latest Artificial Analysis snapshot; if the API is unavailable it falls back
+to clearly labelled demo data.
 
 ## API surface (V1a)
 
